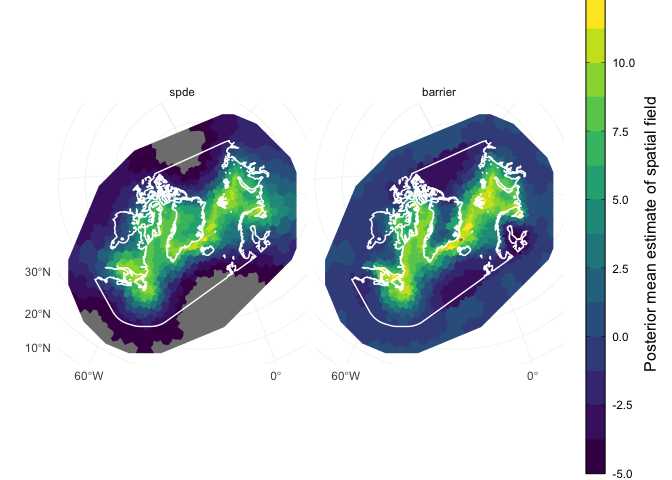
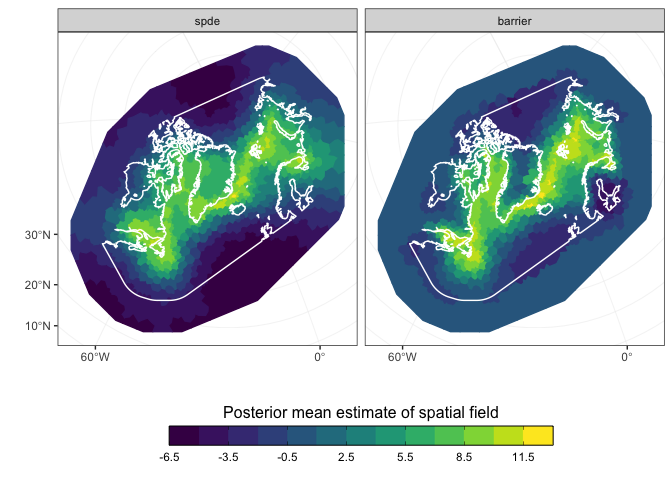
Update example in README file

diff --git a/README.md b/README.md
@@ -6,23 +6,23 @@ developed.](https://www.repostatus.org/badges/latest/active.svg)](https://www.re
 harpDist
 ========
 
-**harpDist** is a space-time modelling framework to estimate the impact
-of climate change on harp seal migratory behaviour.
+**harpDist** is a framework for fitting spatio-temporal log Gaussian Cox
+Processes to animal telemetry data.
 
-Given a set of animal telemetry data, fit a spatio-temporal log Gaussian
-Cox Process to estimate the distribution and the influence of
-environmental covariates.
+Given a set of locations, for example from a tagged marine animal,
+`harpDist` will generate a global shapefile for mapping, assist with
+`INLA` mesh generation and then fit an LGCP model with or without
+physical barriers using `R-INLA`
 
-An example of how to fit a LGCP including the Bakka barrier model is
-below:
+An example of how to do this is below:
 
 An example analysis
 -------------------
 
-Require packages and download data from repo
+Require packages, download data from GitHub repository and define
+geographic projection
 
 ``` r
-
 # Load libraries
 require(INLA)
 require(tidyverse)
@@ -36,16 +36,16 @@ source("R/discrete_gradient.r")
 
 # Here is a random subsample of 2500 animal locations
 dat <- readRDS("data/harps2500_indexed.rds")
-```
-
-Use the `mapr` package to generate a land shapefile and the boundary for
-the INLA mesh
-
-``` r
 
 # Define an Albers equal area projection using kilometres as units
 prj = "+proj=laea +lat_0=75 +lon_0=-25 +x_0=0 +y_0=0 +datum=WGS84 +units=km +no_defs +ellps=WGS84 +towgs84=0,0,0"
+```
 
+Use the `mapr` package
+(<a href="https://github.com/jamesgrecian/mapr" class="uri">https://github.com/jamesgrecian/mapr</a>)
+to generate a land shapefile and the boundary for the INLA mesh
+
+``` r
 # Generate a land shapefile for generating a map later on
 land <- mapr::mapr(dat,
                    prj,
@@ -63,11 +63,8 @@ Use the boundary file to generate the INLA mesh, construct the Voroni
 polygons and calculate weights
 
 ``` r
-
 # Remove any animal locations that fall on land
 in.water = over(b, SpatialPoints(cbind(dat$x, dat$y), proj4string = CRS(prj)), returnList=T)[[1]]
-print(paste("There are", nrow(dat)-length(in.water), "points on land in the original polygon"))
-#> [1] "There are 62 points on land in the original polygon"
 dat <- dat[in.water,]
 
 # Define the parameters of the boundary mesh
@@ -80,7 +77,7 @@ bound.outer = 1000
 mesh = inla.mesh.2d(boundary = b,
                     loc = cbind(dat$x, dat$y),
                     max.edge = c(1, 5) * max.edge,
-                    cutoff = 50, # this has been 25 to match ice...
+                    cutoff = 50,
                     offset = c(max.edge, bound.outer),
                     crs = CRS(prj))
 
@@ -97,10 +94,10 @@ w <- sapply(1:length(dmesh), function(i){
 })
 ```
 
-First fit a lgcp with matérn covariance spde
+Non-barrier model
+-----------------
 
 ``` r
-
 # Set up a matern covariance on the 2D spde
 spde = inla.spde2.pcmatern(mesh,
                            prior.range = c(50, .1),
@@ -130,20 +127,22 @@ fit <- inla(y ~ 0 + b0 + f(s, model = spde),
             data = inla.stack.data(stk),
             control.predictor = list(A = inla.stack.A(stk)),
             E = inla.stack.data(stk)$e,
-            control.inla = list(int.strategy = "eb"), # strategy ='adaptive' fails
+            control.inla = list(int.strategy = "eb"),
             control.compute = list(config = TRUE,
                                    dic = T,
                                    waic = T))
 ```
 
-This model will ignore coastlines, but marine mammals are unlikely to
-travel across land!
+Bakka barrier model
+-------------------
 
-Instead fit the barrier matérn model. For details see:
+Marine mammals are unlikely to travel across land, so fit a spatial
+model that includes coastlines as physical barriers to the estimation.
+
+For details see:
 <a href="https://doi.org/10.1016/j.spasta.2019.01.002" class="uri">https://doi.org/10.1016/j.spasta.2019.01.002</a>
 
 ``` r
-
 # Set up boundary matern model
 tl = length(mesh$graph$tv[,1]) # the number of triangles in the mesh
 
@@ -179,40 +178,43 @@ barrier.fit <- inla(y ~ 0 + b0 + f(s, model = barrier.model),
 #>   Use this model with extra care!!! Further warnings are disabled.
 ```
 
+Plot model outputs
+------------------
+
 Visualise the posterior spatial fields for the two lgcp models
 
 ``` r
-
 # Generate a tidy plot
 preds <- dmesh %>% st_as_sf()
-preds <- rbind(preds, preds)
+preds <- rbind(preds, preds) # double length for facet_wrap plotting by model type
 preds <- preds %>% mutate(model = rep(c("spde", "barrier"), each = nv),
                           posterior = c(fit$summary.random$s$mean,
                                         barrier.fit$summary.random$s$mean))
 preds$model <- factor(preds$model)
-preds$model = relevel(preds$model, ref = "spde")
+preds$model <- relevel(preds$model, ref = "spde")
 
 p <- ggplot() +
-  theme_minimal() +
+  theme_bw() +
   ylab("") + xlab("") +
   geom_sf(aes(colour = posterior,
               fill = posterior), data = preds) +
   scale_colour_discrete_gradient("Posterior mean estimate of spatial field",
-                                 colours = viridis::viridis(14),
-                                 bins = 14,
-                                 limits = c(-5, 12.5),
-                                 breaks = seq(-5, 12.5, 2.5),
+                                 colours = viridis::viridis(13),
+                                 bins = 13,
+                                 limits = c(-6.5, 13.0),
+                                 breaks = seq(-6.5, 13.0, 3),
                                  guide = guide_colourbar(nbin = 500,
                                                          raster = T,
                                                          frame.colour = "black",
                                                          ticks.colour = "black",
                                                          frame.linewidth = 1,
-                                                         barwidth = 1,
-                                                         barheight = 25,
-                                                         direction = "vertical",
-                                                         title.position = "right",
-                                                         title.theme = element_text(angle = 90,
+                                                         barwidth = 20,
+                                                         barheight = 1,
+                                                         direction = "horizontal",
+                                                         title.position = "top",
+                                                         title.theme = element_text(angle = 0,
                                                                                     hjust = 0.5))) +
+  theme(legend.position = "bottom") +
   geom_sf(aes(), colour = "white", fill = NA, data = st_as_sf(b)) +
   facet_wrap(~ model)
 print(p)
